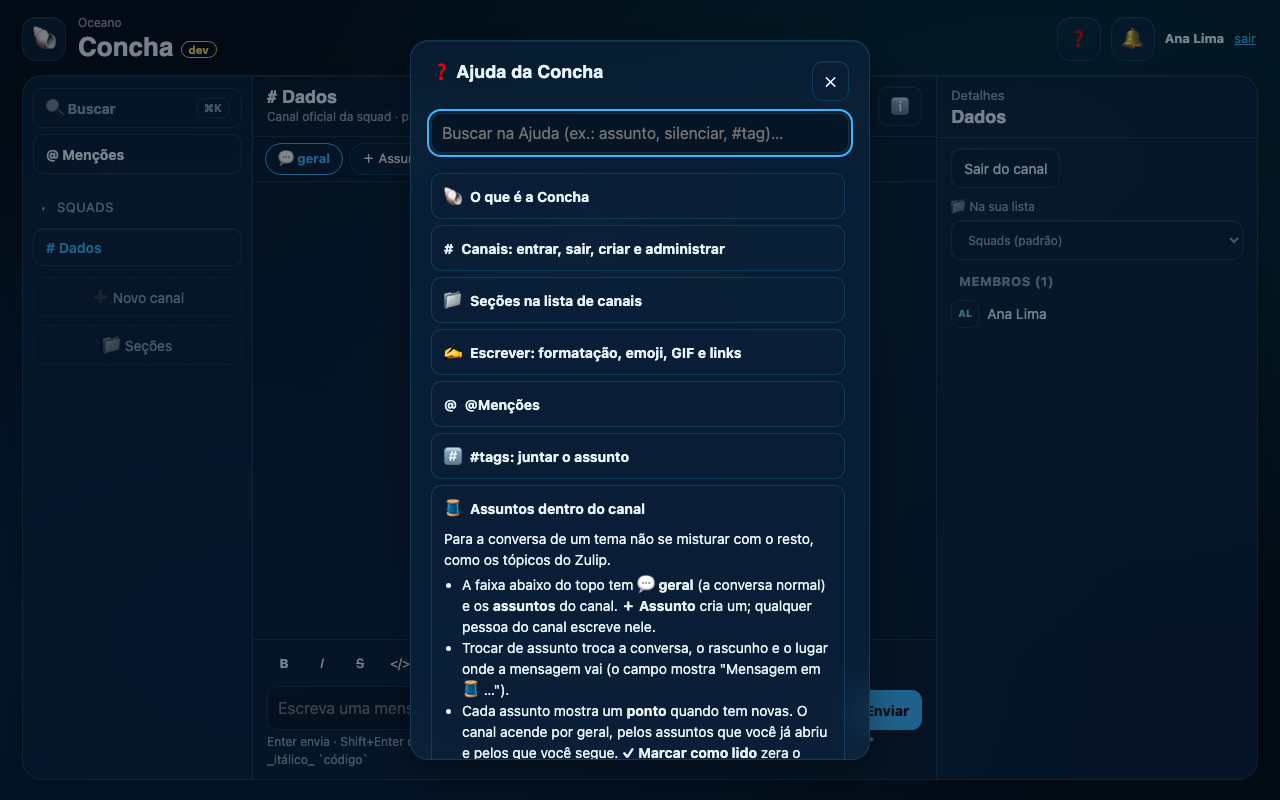
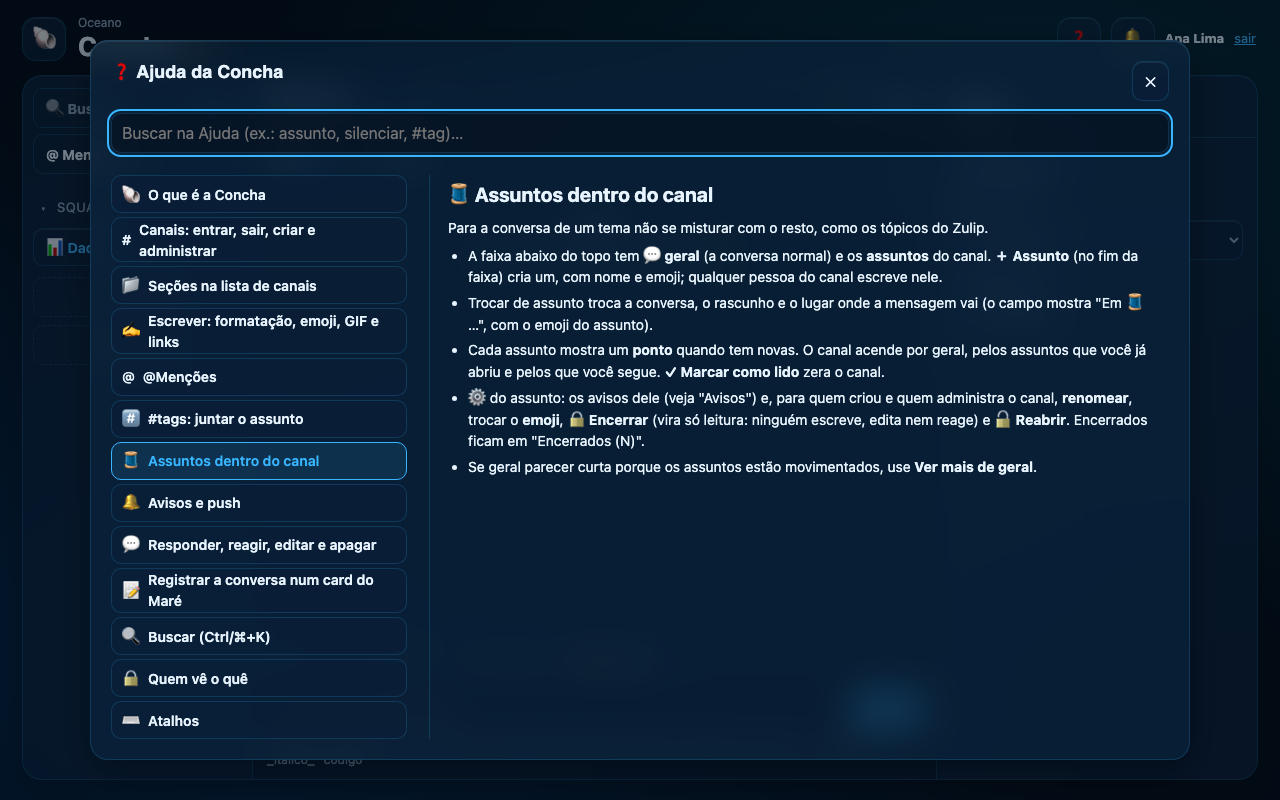
fix(concha): Ajuda usa a tela — até 1100 px, índice à esquerda e o tópico inteiro à direita (celular segue em sanfona) (v0.31)
A regra geral .md (460 px) vencia a largura da Ajuda. ↑↓ no índice; busca filtra e abre o 1º. A janela entra na página
antes dos focus(). test_concha_ajuda.js (17, os dois layouts).

Agent: claude

diff --git a/cardume-dev.html b/cardume-dev.html
@@ -112,8 +112,17 @@ input{min-height:40px;padding:6px 10px;font-size:16px;width:100%;}
 .assuntos-barra .ponto-a{display:inline-block;width:7px;height:7px;border-radius:50%;background:var(--accent);margin-left:6px;vertical-align:middle;}
 .assuntos-barra .fechado{opacity:.75;}
 .aviso-encerrado{margin:8px 0;padding:8px 12px;border:1px dashed var(--glass-b);border-radius:10px;color:var(--txt2);font-size:13px;}
-.ajuda-md{width:min(720px,100%);max-height:min(86vh,900px);display:flex;flex-direction:column;}
-.ajuda-lista{overflow:auto;display:grid;gap:6px;margin-top:8px;padding-right:4px;}
+.md.ajuda-md{width:min(1100px,96vw);max-height:90vh;height:90vh;display:flex;flex-direction:column;}   /* .md.ajuda-md: a janela geral (.md, 460 px) vencia e a Ajuda ficava estreita */
+.ajuda-lista{overflow:auto;display:grid;gap:8px;margin-top:8px;padding-right:4px;align-content:start;}
+.ajuda-lista .texto,.ajuda-artigo .texto{font-size:14px;line-height:1.55;}
+/* tela larga: índice à esquerda, o tópico à direita (leitura confortável, sem buraco) */
+.ajuda-duas{display:grid;grid-template-columns:minmax(230px,300px) 1fr;gap:18px;min-height:0;flex:1;margin-top:10px;}
+.ajuda-indice{overflow:auto;display:grid;gap:4px;align-content:start;padding-right:4px;}
+.ajuda-indice button{display:flex;gap:8px;align-items:center;text-align:left;min-height:38px;padding:6px 10px;box-shadow:none;font-weight:600;}
+.ajuda-indice button[aria-current="true"]{border-color:var(--accent);color:var(--accent-txt);background:rgba(56,182,255,.12);}
+.ajuda-artigo{overflow:auto;padding:4px 6px 12px 4px;border-left:1px solid var(--glass-b);padding-left:18px;}
+.ajuda-artigo h3{margin:4px 0 10px;font-size:20px;text-transform:none;letter-spacing:0;color:var(--txt);}
+.ajuda-artigo .texto p{margin:6px 0;} .ajuda-artigo .texto ul{margin:6px 0;padding-left:20px;display:grid;gap:4px;}
 .ajuda-lista details{border:1px solid var(--glass-b);border-radius:10px;padding:8px 12px;background:rgba(var(--slate-rgb),.45);}
 .ajuda-lista summary{cursor:pointer;font-weight:700;min-height:28px;display:flex;align-items:center;gap:8px;}
 .ajuda-lista details[open] summary{margin-bottom:6px;}
@@ -380,7 +389,7 @@ import { initializeApp } from 'https://www.gstatic.com/firebasejs/10.12.0/fireba
 import { getDatabase, ref, get, set, update, push, onValue, onDisconnect, query, orderByChild, orderByValue, equalTo, limitToLast, serverTimestamp } from 'https://www.gstatic.com/firebasejs/10.12.0/firebase-database.js';
 import { getAuth, GoogleAuthProvider, signInWithPopup, signOut, onAuthStateChanged } from 'https://www.gstatic.com/firebasejs/10.12.0/firebase-auth.js';
 
-const VERSION = 'v0.30 · cardume-dev', VERSION_KEY = 'cardume_dev';
+const VERSION = 'v0.31 · cardume-dev', VERSION_KEY = 'cardume_dev';
 const firebaseConfig = {
   apiKey:            localStorage.getItem('fb_apiKeycardume_dev')           || 'AIzaSyBzCOFtPCpaxUcLqX5Sq1GxYL2yAWnDAWU',
   authDomain:        localStorage.getItem('fb_authDomaincardume_dev')       || 'hering-onboarding.firebaseapp.com',
@@ -1498,26 +1507,43 @@ function abrirAjuda(id) {
   fecharModal._volta = document.activeElement;
   const ov = $('ov'); ov.replaceChildren(); ov.hidden = false;
   const f = el('div', 'md ajuda-md'); f.setAttribute('role', 'dialog'); f.setAttribute('aria-modal', 'true'); f.setAttribute('aria-labelledby', 'md-t');
+  ov.append(f);   // já na página: os focus() abaixo valem
   const cab = el('div', 'linha'); const h = el('h2', '', '❓ Ajuda da Concha'); h.id = 'md-t'; h.style.flex = '1';
   const x = el('button', '', '✕'); x.type = 'button'; x.setAttribute('aria-label', 'Fechar a Ajuda'); x.onclick = fecharModal; cab.append(h, x); f.append(cab);
   const busca = el('input'); busca.type = 'search'; busca.placeholder = 'Buscar na Ajuda (ex.: assunto, silenciar, #tag)…'; busca.setAttribute('aria-label', 'Buscar na Ajuda'); f.append(busca);
-  const lista = el('div', 'ajuda-lista'); f.append(lista);
-  const nada = el('p', 'subtitulo', 'Nada encontrado. Tente outra palavra.'); nada.hidden = true; f.append(nada);
-  AJUDA.forEach(a => {
-    const d = el('details'); d.id = 'ajuda-' + a.id; d.dataset.busca = norm(a.t + ' ' + a.txt);
-    const sm = el('summary'); sm.append(el('span', '', a.ic), el('span', '', a.t));
-    textoSimples = true; let corpo; try { corpo = renderTexto(a.txt); } finally { textoSimples = false; }
-    d.append(sm, corpo); lista.append(d);
-  });
-  busca.oninput = () => {
-    const q = norm(busca.value.trim()), ps = q.split(/\s+/).filter(Boolean); let n = 0;
-    lista.querySelectorAll('details').forEach(d => { const v = !ps.length || ps.every(w => d.dataset.busca.includes(w)); d.hidden = !v; if (v) n++; if (ps.length) d.open = v; });
-    nada.hidden = n > 0;
-  };
+  const nada = el('p', 'subtitulo', 'Nada encontrado. Tente outra palavra.'); nada.hidden = true;
+  const corpoDe = a => { textoSimples = true; try { return renderTexto(a.txt); } finally { textoSimples = false; } };
+  const largo = window.matchMedia('(min-width: 900px)').matches;
+  let filtrar;
+  if (largo) {   // índice + leitura
+    const duas = el('div', 'ajuda-duas'), ind = el('nav', 'ajuda-indice'), art = el('article', 'ajuda-artigo');
+    ind.setAttribute('aria-label', 'Tópicos da Ajuda'); art.setAttribute('aria-live', 'polite');
+    const mostrar = (aid, foco) => {
+      const a = AJUDA.find(z => z.id === aid) || AJUDA[0];
+      art.replaceChildren(); art.dataset.id = a.id; art.id = 'ajuda-' + a.id;
+      const t = el('h3', ''); t.append(document.createTextNode(a.ic + ' ' + a.t)); art.append(t, corpoDe(a)); art.scrollTop = 0;
+      ind.querySelectorAll('button').forEach(b => b.setAttribute('aria-current', String(b.dataset.id === a.id)));
+      if (foco) { const b = ind.querySelector('[data-id="' + CSS.escape(a.id) + '"]'); if (b) b.focus(); }
+    };
+    AJUDA.forEach(a => { const b = el('button'); b.type = 'button'; b.dataset.id = a.id; b.dataset.busca = norm(a.t + ' ' + a.txt); b.append(el('span', '', a.ic), el('span', '', a.t)); b.onclick = () => mostrar(a.id); ind.append(b); });
+    ind.addEventListener('keydown', e => {   // ↑ ↓ no índice
+      if (e.key !== 'ArrowDown' && e.key !== 'ArrowUp') return; e.preventDefault();
+      const vis = [...ind.querySelectorAll('button')].filter(b => !b.hidden), i = vis.indexOf(document.activeElement);
+      const prox = vis[(i + (e.key === 'ArrowDown' ? 1 : -1) + vis.length) % vis.length]; if (prox) { prox.focus(); mostrar(prox.dataset.id); }
+    });
+    duas.append(ind, art); f.append(duas, nada);
+    filtrar = ps => { const vis = []; ind.querySelectorAll('button').forEach(b => { const v = !ps.length || ps.every(w => b.dataset.busca.includes(w)); b.hidden = !v; if (v) vis.push(b); }); if (vis.length && ps.length) mostrar(vis[0].dataset.id); return vis.length; };
+    mostrar(id || 'concha');
+    if (id) ind.querySelector('[data-id="' + CSS.escape(id) + '"]')?.focus(); else busca.focus();
+  } else {   // celular: sanfona
+    const lista = el('div', 'ajuda-lista'); f.append(lista, nada);
+    AJUDA.forEach(a => { const d = el('details'); d.id = 'ajuda-' + a.id; d.dataset.busca = norm(a.t + ' ' + a.txt); const sm = el('summary'); sm.append(el('span', '', a.ic), el('span', '', a.t)); d.append(sm, corpoDe(a)); lista.append(d); });
+    filtrar = ps => { let n = 0; lista.querySelectorAll('details').forEach(d => { const v = !ps.length || ps.every(w => d.dataset.busca.includes(w)); d.hidden = !v; if (v) n++; if (ps.length) d.open = v; }); return n; };
+    const alvo = id && lista.querySelector('#ajuda-' + CSS.escape(id));
+    if (alvo) { alvo.open = true; setTimeout(() => alvo.scrollIntoView({ block: 'start' }), 0); alvo.querySelector('summary').focus(); } else busca.focus();
+  }
+  busca.oninput = () => { const ps = norm(busca.value.trim()).split(/\s+/).filter(Boolean); nada.hidden = filtrar(ps) > 0; };
   f.addEventListener('keydown', e => { if (e.key === 'Escape') { e.preventDefault(); fecharModal(); } });
-  ov.append(f);
-  const alvo = id && lista.querySelector('#ajuda-' + CSS.escape(id));
-  if (alvo) { alvo.open = true; alvo.scrollIntoView({ block: 'start' }); alvo.querySelector('summary').focus(); } else busca.focus();
 }
 $('b-ajuda').onclick = () => abrirAjuda('');
 $('b-fmt-ajuda-tudo').onclick = () => abrirAjuda('escrever');

diff --git a/docs/arezzo/testes/test_concha_ajuda.js b/docs/arezzo/testes/test_concha_ajuda.js
@@ -21,28 +21,41 @@ const t = (n, c, d) => { total++; if (!c) ok = false; console.log((c ? '✅ ' : 
   await p.evaluate(x => window.__authCb(x), ANA); await p.waitForTimeout(900);
   const n0 = await p.evaluate(() => (window.__escritas || []).length);
   t('❓ no topo depois do login', await p.evaluate(() => !document.getElementById('b-ajuda').hidden), 0);
+  // computador (1280): índice + leitura
   await p.click('#b-ajuda'); await p.waitForTimeout(150);
-  const tops = await p.evaluate(() => [...document.querySelectorAll('.ajuda-lista summary')].map(s => s.textContent));
-  t('13 tópicos, de "O que é" a "Atalhos"', tops.length === 13 && /O que é a Concha/.test(tops[0]) && /Atalhos/.test(tops[12]), tops);
-  t('o texto vem formatado pelo renderTexto (negrito, lista) e os exemplos de # e @ NÃO viram etiqueta nem menção', await p.evaluate(() => { const l = document.querySelector('.ajuda-lista'); return !!l.querySelector('strong') && !!l.querySelector('li') && !l.querySelector('button.tag') && !l.querySelector('.mencao') && /#banner/.test(l.textContent) && /As #tags aparecem/.test(l.textContent); }), 0);
+  const tops = await p.evaluate(() => [...document.querySelectorAll('.ajuda-indice button')].map(b => b.textContent));
+  t('tela larga: índice com 13 tópicos, de "O que é" a "Atalhos", e o 1º aberto à direita', tops.length === 13 && /O que é a Concha/.test(tops[0]) && /Atalhos/.test(tops[12]) && await p.evaluate(() => document.querySelector('.ajuda-artigo').dataset.id === 'concha'), tops);
+  t('a janela usa a tela (≥ 1000 px de largura em 1280)', await p.evaluate(() => document.querySelector('.ajuda-md').getBoundingClientRect().width >= 1000), await p.evaluate(() => document.querySelector('.ajuda-md').getBoundingClientRect().width));
   t('foco na busca ao abrir', await p.evaluate(() => document.activeElement.type === 'search'), 0);
-  await p.keyboard.type('silenci'); await p.waitForTimeout(100);
-  const vis = await p.evaluate(() => [...document.querySelectorAll('.ajuda-lista details')].filter(d => !d.hidden).map(d => d.id));
-  t('busca "silenci" deixa só os tópicos certos, abertos', vis.includes('ajuda-avisos') && vis.includes('ajuda-tags') && !vis.includes('ajuda-card') && await p.evaluate(() => document.getElementById('ajuda-avisos').open), vis);
+  await p.click('.ajuda-indice [data-id="tags"]'); await p.waitForTimeout(100);
+  t('o texto vem formatado (negrito, lista) e os exemplos de # e @ NÃO viram etiqueta nem menção', await p.evaluate(() => { const l = document.querySelector('.ajuda-artigo'); return !!l.querySelector('strong') && !!l.querySelector('li') && !l.querySelector('button.tag') && !l.querySelector('.mencao') && /#banner/.test(l.textContent) && /As #tags aparecem/.test(l.textContent); }), 0);
+  await p.keyboard.press('ArrowDown'); await p.waitForTimeout(100);
+  t('↓ no índice passa para o próximo tópico', await p.evaluate(() => document.querySelector('.ajuda-artigo').dataset.id === 'assuntos'), await p.evaluate(() => document.querySelector('.ajuda-artigo').dataset.id));
+  await p.fill('.ajuda-md input[type=search]', 'silenci'); await p.waitForTimeout(100);
+  const vis = await p.evaluate(() => [...document.querySelectorAll('.ajuda-indice button')].filter(b => !b.hidden).map(b => b.dataset.id));
+  t('busca "silenci" filtra o índice e abre o primeiro', vis.includes('avisos') && vis.includes('tags') && !vis.includes('card') && await p.evaluate(v => document.querySelector('.ajuda-artigo').dataset.id === v[0], vis), vis);
   await p.fill('.ajuda-md input[type=search]', 'promocao'); await p.waitForTimeout(100);
-  t('sem acento: "promocao" acha o tópico de busca (o exemplo está lá)', await p.evaluate(() => !document.getElementById('ajuda-busca').hidden), 0);
+  t('sem acento: "promocao" acha o tópico de busca', await p.evaluate(() => !document.querySelector('.ajuda-indice [data-id="busca"]').hidden), 0);
   await p.fill('.ajuda-md input[type=search]', 'xyzqw'); await p.waitForTimeout(100);
   t('sem resultado: avisa', await p.evaluate(() => !document.querySelector('.ajuda-md > p.subtitulo').hidden), 0);
   await p.keyboard.press('Escape'); await p.waitForTimeout(100);
   t('Esc fecha', await p.evaluate(() => document.getElementById('ov').hidden), 0);
   await p.click('#b-fmt-ajuda'); await p.click('#b-fmt-ajuda-tudo'); await p.waitForTimeout(200);
-  t('"?" da barra › "Ver a Ajuda completa" abre no tópico de escrever', await p.evaluate(() => document.getElementById('ajuda-escrever').open && !document.getElementById('ov').hidden), 0);
+  t('"?" da barra › "Ver a Ajuda completa" abre no tópico de escrever', await p.evaluate(() => document.querySelector('.ajuda-artigo').dataset.id === 'escrever'), 0);
   await p.keyboard.press('Escape');
   await p.keyboard.press('Control+k'); await p.waitForTimeout(300); await p.fill('#msn-in', 'a: assunto'); await p.waitForTimeout(450);
   const so = await p.evaluate(() => [...document.querySelectorAll('#msn-lista [data-i]')].map(e => e.textContent));
   t('Sonar, aba Ajuda ("a: assunto"): acha "Assuntos dentro do canal"', so.some(x => /Assuntos dentro do canal/.test(x)), so);
   await p.keyboard.press('Enter'); await p.waitForTimeout(300);
-  t('Enter abre a Ajuda no tópico', await p.evaluate(() => document.getElementById('ajuda-assuntos') && document.getElementById('ajuda-assuntos').open), 0);
+  t('Enter abre a Ajuda no tópico', await p.evaluate(() => (document.querySelector('.ajuda-artigo') || {}).dataset?.id === 'assuntos'), 0);
+  await p.keyboard.press('Escape');
+  // celular (390): sanfona
+  await p.setViewportSize({ width: 390, height: 780 }); await p.waitForTimeout(200);
+  await p.click('#b-ajuda'); await p.waitForTimeout(150);
+  t('celular: sanfona com 13 tópicos', await p.evaluate(() => document.querySelectorAll('.ajuda-lista details').length === 13 && !document.querySelector('.ajuda-indice')), 0);
+  await p.fill('.ajuda-md input[type=search]', 'silenci'); await p.waitForTimeout(100);
+  t('celular: a busca filtra e abre', await p.evaluate(() => document.getElementById('ajuda-avisos').open && document.getElementById('ajuda-card').hidden), 0);
+  await p.keyboard.press('Escape');
   t('a Ajuda não grava nada', (await p.evaluate(() => (window.__escritas || []).length)) === n0, 0);
   t('sem erro de JS', !errs.length, errs);
   await b.close();

diff --git a/BUGS_E_CORRECOES.md b/BUGS_E_CORRECOES.md
@@ -87,6 +87,10 @@ Antes de alterar código compartilhado, queries do Firebase, fluxos de autentica
 
 ## 🐛 Histórico de Bugs e Correções
 
+### 2026-11-25 · 🐚 Concha: Ajuda estreita — agora usa a tela, com índice e leitura lado a lado (SÓ DEV, cardume v0.31)
+
+Relato do Caio: a Ajuda da Concha estava "muito curtinha horizontalmente". Causa: a regra geral das janelas (.md, 460 px) vencia a largura da Ajuda (mesma especificidade, declarada depois). Agora a Ajuda ocupa a tela (até 1100 px, 90 % da altura) e, em tela larga, vira índice à esquerda + tópico inteiro à direita (↑ ↓ no índice; a busca filtra o índice e abre o primeiro resultado); no celular continua a sanfona. De passagem: a janela entrava na página só no fim, depois dos focus(), que não tinham efeito. Teste test_concha_ajuda.js (17, os dois layouts). Prints em docs/capturas/concha-ajuda/.
+
 ### 2026-11-25 · 🐚 Concha: criar canal em dobro, emoji fora do rascunho e escuta que seguia depois de tirada do canal (SÓ DEV, cardume v0.21)
 
 /monitorarbugs na Concha (cardume-dev.html, regras kanban/cardume, cardumePush, conchaGifBusca). 3 achados, reproduzidos pela tela real antes de corrigir (test_concha_monitorarbugs_1125.js: os 3 falham na main e passam agora):
